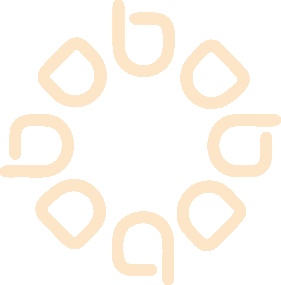
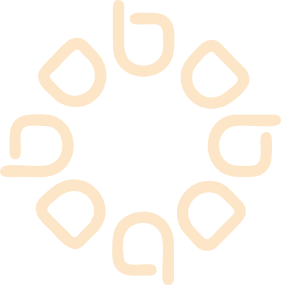
feat(standalone): split biligN mark and wordmark with quiet EZA byline
Use separate brand PNGs at tuned sidebar scale and place EZA after the measured biligN letter bounds instead of the unreadable Powered by EZA lockup text.

diff --git a/eza-v5/frontend/components/saina/SainaBrandLockup.tsx b/eza-v5/frontend/components/saina/SainaBrandLockup.tsx
@@ -1,41 +1,47 @@
 import { cn } from '@/lib/utils';
-import { SAINA_BRAND, SAINA_POWERED } from '@/lib/eza/sainaCopy';
+import { SAINA_BRAND, SAINA_BRAND_BYLINE } from '@/lib/eza/sainaCopy';
 
-export const BILIGN_LOCKUP_SRC = '/bilign/bilign-lockup.png';
-export const BILIGN_LOCKUP_INTRINSIC_WIDTH = 1024;
-export const BILIGN_LOCKUP_INTRINSIC_HEIGHT = 724;
-
-/** Lockup aspect ratio from the official biligN asset (1024×724). */
-export const BILIGN_LOCKUP_ASPECT = BILIGN_LOCKUP_INTRINSIC_WIDTH / BILIGN_LOCKUP_INTRINSIC_HEIGHT;
+export const BILIGN_MARK_SRC = '/bilign/bilign-mark.png';
+export const BILIGN_WORDMARK_SRC = '/bilign/bilign-wordmark.png';
+export const BILIGN_MARK_INTRINSIC = { width: 281, height: 285 } as const;
+export const BILIGN_WORDMARK_INTRINSIC = { width: 1024, height: 724 } as const;
+export const BILIGN_WORDMARK_ASPECT =
+  BILIGN_WORDMARK_INTRINSIC.width / BILIGN_WORDMARK_INTRINSIC.height;
 
 type SainaBrandLockupProps = {
   className?: string;
-  /** Optional explicit height in px; prefer CSS size modifiers when possible. */
-  height?: number;
 };
 
-/** Full biligN lockup — mark, wordmark, and Powered by EZA in one original asset. */
-export default function SainaBrandLockup({
-  className,
-  height,
-}: SainaBrandLockupProps) {
-  const inlineSize =
-    height != null
-      ? { height, width: Math.round(height * BILIGN_LOCKUP_ASPECT) }
-      : undefined;
-
+/** biligN header — separate mark + wordmark assets with a quiet EZA byline. */
+export default function SainaBrandLockup({ className }: SainaBrandLockupProps) {
   return (
-    <span className={cn('saina-brand-lockup', className)} data-testid="saina-brand-lockup">
-      {/* eslint-disable-next-line @next/next/no-img-element -- official lockup PNG; preserves designed proportions. */}
+    <div
+      className={cn('saina-brand-split', className)}
+      data-testid="saina-brand-lockup"
+      aria-label={`${SAINA_BRAND} — ${SAINA_BRAND_BYLINE}`}
+    >
+      {/* eslint-disable-next-line @next/next/no-img-element -- original mark PNG. */}
       <img
-        src={BILIGN_LOCKUP_SRC}
-        alt={`${SAINA_BRAND} — ${SAINA_POWERED}`}
+        src={BILIGN_MARK_SRC}
+        alt=""
+        aria-hidden
         draggable={false}
-        width={BILIGN_LOCKUP_INTRINSIC_WIDTH}
-        height={BILIGN_LOCKUP_INTRINSIC_HEIGHT}
-        className="saina-brand-lockup-img"
-        style={inlineSize}
+        width={BILIGN_MARK_INTRINSIC.width}
+        height={BILIGN_MARK_INTRINSIC.height}
+        className="saina-brand-split-mark"
       />
-    </span>
+      <div className="saina-brand-split-text">
+        {/* eslint-disable-next-line @next/next/no-img-element -- original wordmark PNG. */}
+        <img
+          src={BILIGN_WORDMARK_SRC}
+          alt={SAINA_BRAND}
+          draggable={false}
+          width={BILIGN_WORDMARK_INTRINSIC.width}
+          height={BILIGN_WORDMARK_INTRINSIC.height}
+          className="saina-brand-split-wordmark"
+        />
+        <span className="saina-brand-eza">{SAINA_BRAND_BYLINE}</span>
+      </div>
+    </div>
   );
 }

diff --git a/eza-v5/frontend/styles/saina-mirror.css b/eza-v5/frontend/styles/saina-mirror.css
@@ -614,32 +614,86 @@ html:has(.saina-page) body {
   padding: 0 0 0.35rem 0.35rem;
 }
 
-.saina-brand-lockup {
-  display: inline-flex;
+.saina-brand-split {
+  display: flex;
   align-items: center;
   justify-content: flex-start;
+  gap: 0.08rem;
   flex: 1;
   min-width: 0;
   line-height: 0;
 }
 
-.saina-brand-lockup-img {
+.saina-brand-split--sidebar .saina-brand-split-text {
+  margin-left: -1.32rem;
+}
+
+.saina-brand-split--auth .saina-brand-split-text {
+  margin-left: -1.48rem;
+}
+
+.saina-brand-split--sidebar .saina-brand-split-mark {
+  height: 2.5rem;
+}
+
+.saina-brand-split--auth .saina-brand-split-mark {
+  height: 3.25rem;
+}
+
+.saina-brand-split-mark {
   display: block;
   width: auto;
-  max-width: 100%;
+  flex-shrink: 0;
   object-fit: contain;
 }
 
-.saina-brand-lockup--sidebar .saina-brand-lockup-img {
-  height: clamp(7.5rem, 21vw, 8.625rem);
-  width: auto;
-  max-width: min(100%, 24.75rem);
+.saina-brand-split-text {
+  position: relative;
+  display: block;
+  align-self: center;
+  min-width: 0;
+  flex: 0 1 auto;
+  line-height: normal;
+  /* Measured from bilign-wordmark.png letter bounds (1024×724). */
+  --bilign-wordmark-text-end-x: 74.3%;
+  --bilign-wordmark-text-end-y: 60.2%;
 }
 
-.saina-brand-lockup--auth .saina-brand-lockup-img {
-  height: clamp(5.5rem, 22vw, 6.5rem);
+.saina-brand-split--sidebar .saina-brand-split-wordmark {
+  display: block;
+  height: 6rem;
   width: auto;
-  max-width: min(100%, 18rem);
+  max-width: none;
+  object-fit: contain;
+  object-position: left center;
+}
+
+.saina-brand-split--auth .saina-brand-split-wordmark {
+  display: block;
+  height: 7rem;
+  width: auto;
+  max-width: none;
+  object-fit: contain;
+  object-position: left center;
+}
+
+.saina-brand-eza {
+  position: absolute;
+  top: calc(var(--bilign-wordmark-text-end-y) - 0.45rem);
+  left: calc(var(--bilign-wordmark-text-end-x) + 0.14rem);
+  margin: 0;
+  font-size: 0.5rem;
+  font-weight: 500;
+  letter-spacing: 0.16em;
+  line-height: 1;
+  white-space: nowrap;
+  color: rgba(107, 138, 122, 0.5);
+}
+
+.saina-brand-split--auth .saina-brand-eza {
+  top: calc(var(--bilign-wordmark-text-end-y) - 0.5rem);
+  left: calc(var(--bilign-wordmark-text-end-x) + 0.16rem);
+  letter-spacing: 0.16em;
 }
 
 .saina-brand-mark {

diff --git a/eza-v5/frontend/tests/standaloneSainaShell.test.tsx b/eza-v5/frontend/tests/standaloneSainaShell.test.tsx
@@ -49,7 +49,7 @@ import {
   SAINA_MOBILE_MIRROR_CTA_AFTER_RESPONSE,
   SAINA_MOBILE_MIRROR_CTA_EMPTY,
   SAINA_MOBILE_MIRROR_CTA_SIGNAL_READY,
-  SAINA_POWERED,
+  SAINA_BRAND_BYLINE,
   SAINA_SAFE_MODE_LABEL,
   SAINA_TAGLINE,
   SAINA_USER_LABEL,
@@ -90,8 +90,9 @@ describe('SainaStandaloneShell (Sprint B.2A)', () => {
 
     expect(screen.getByTestId('saina-standalone-shell')).toBeInTheDocument();
     expect(screen.getByTestId('saina-conversation-sidebar')).toBeInTheDocument();
+    expect(screen.getByTestId('saina-brand-lockup')).toBeInTheDocument();
     expect(screen.getByRole('img', { name: new RegExp(SAINA_BRAND) })).toBeInTheDocument();
-    expect(screen.getByRole('img', { name: new RegExp(SAINA_POWERED) })).toBeInTheDocument();
+    expect(screen.getByTestId('saina-brand-lockup')).toHaveTextContent(SAINA_BRAND_BYLINE);
     // Pattern dock label is intentionally "EZA"; brand wordmark must stay biligN.
     expect(screen.getByTestId('saina-pattern-nav')).toHaveTextContent('EZA');
     expect(screen.queryByText('Standalone', { exact: true })).not.toBeInTheDocument();

diff --git a/eza-v5/frontend/components/saina/SainaAuthShell.tsx b/eza-v5/frontend/components/saina/SainaAuthShell.tsx
@@ -17,7 +17,7 @@ export default function SainaAuthShell({ title, subtitle, children, footer }: Sa
       <div className="saina-auth-page__backdrop" aria-hidden />
       <div className="saina-auth-page__inner">
         <div className="saina-auth-page__brand">
-          <SainaBrandLockup className="saina-auth-page__brand-lockup saina-brand-lockup--auth" />
+          <SainaBrandLockup className="saina-auth-page__brand-lockup saina-brand-split--auth" />
           <h1 className="saina-auth-page__title">{title}</h1>
           {subtitle ? <p className="saina-auth-page__subtitle">{subtitle}</p> : null}
         </div>

diff --git a/eza-v5/frontend/components/saina/SainaConversationSidebar.tsx b/eza-v5/frontend/components/saina/SainaConversationSidebar.tsx
@@ -606,7 +606,7 @@ export default function SainaConversationSidebar({
         <div className="saina-sidebar-inner">
           <div className="saina-sidebar-top">
             <div className="saina-brand-row">
-              <SainaBrandLockup className="saina-brand-lockup--sidebar" />
+              <SainaBrandLockup className="saina-brand-split--sidebar" />
               {showMobileChrome && mobileOpen ? (
                 <button
                   type="button"

diff --git a/eza-v5/frontend/lib/eza/sainaCopy.ts b/eza-v5/frontend/lib/eza/sainaCopy.ts
@@ -10,6 +10,9 @@ export const SAINA_TAGLINE = 'Your Human-AI reflection';
 
 export const SAINA_POWERED = 'Powered by EZA';
 
+/** Subtle brand byline under the biligN wordmark (replaces unreadable Powered by EZA lockup text). */
+export const SAINA_BRAND_BYLINE = 'EZA';
+
 
 
 export const SAINA_CONVERSATIONS_TITLE = 'Sohbetlerim';

diff --git a/eza-v5/frontend/components/saina/SainaBrandWordmark.tsx b/eza-v5/frontend/components/saina/SainaBrandWordmark.tsx
@@ -1,7 +1,7 @@
 import { cn } from '@/lib/utils';
 import { SAINA_BRAND } from '@/lib/eza/sainaCopy';
 
-export const BILIGN_WORDMARK_SRC = '/bilign/bilign-wordmark.svg';
+export const BILIGN_WORDMARK_SRC = '/bilign/bilign-wordmark.png';
 
 type SainaBrandWordmarkProps = {
   className?: string;

diff --git a/eza-v5/frontend/styles/saina-yansi-desktop.css b/eza-v5/frontend/styles/saina-yansi-desktop.css
@@ -176,6 +176,7 @@
     text-shadow: none;
   }
 
+  .saina-app-root.saina-standalone-shell .saina-brand-eza,
   .saina-app-root.saina-standalone-shell .saina-brand-powered,
   .saina-app-root.saina-standalone-shell .saina-brand-tagline {
     color: var(--bilign-passive);

diff --git a/eza-v5/frontend/components/saina/SainaGeometricMark.tsx b/eza-v5/frontend/components/saina/SainaGeometricMark.tsx
@@ -1,6 +1,6 @@
 import { cn } from '@/lib/utils';
 
-export const BILIGN_MARK_SRC = '/bilign/bilign-mark.svg';
+export const BILIGN_MARK_SRC = '/bilign/bilign-mark.png';
 
 type SainaGeometricMarkProps = {
   className?: string;
